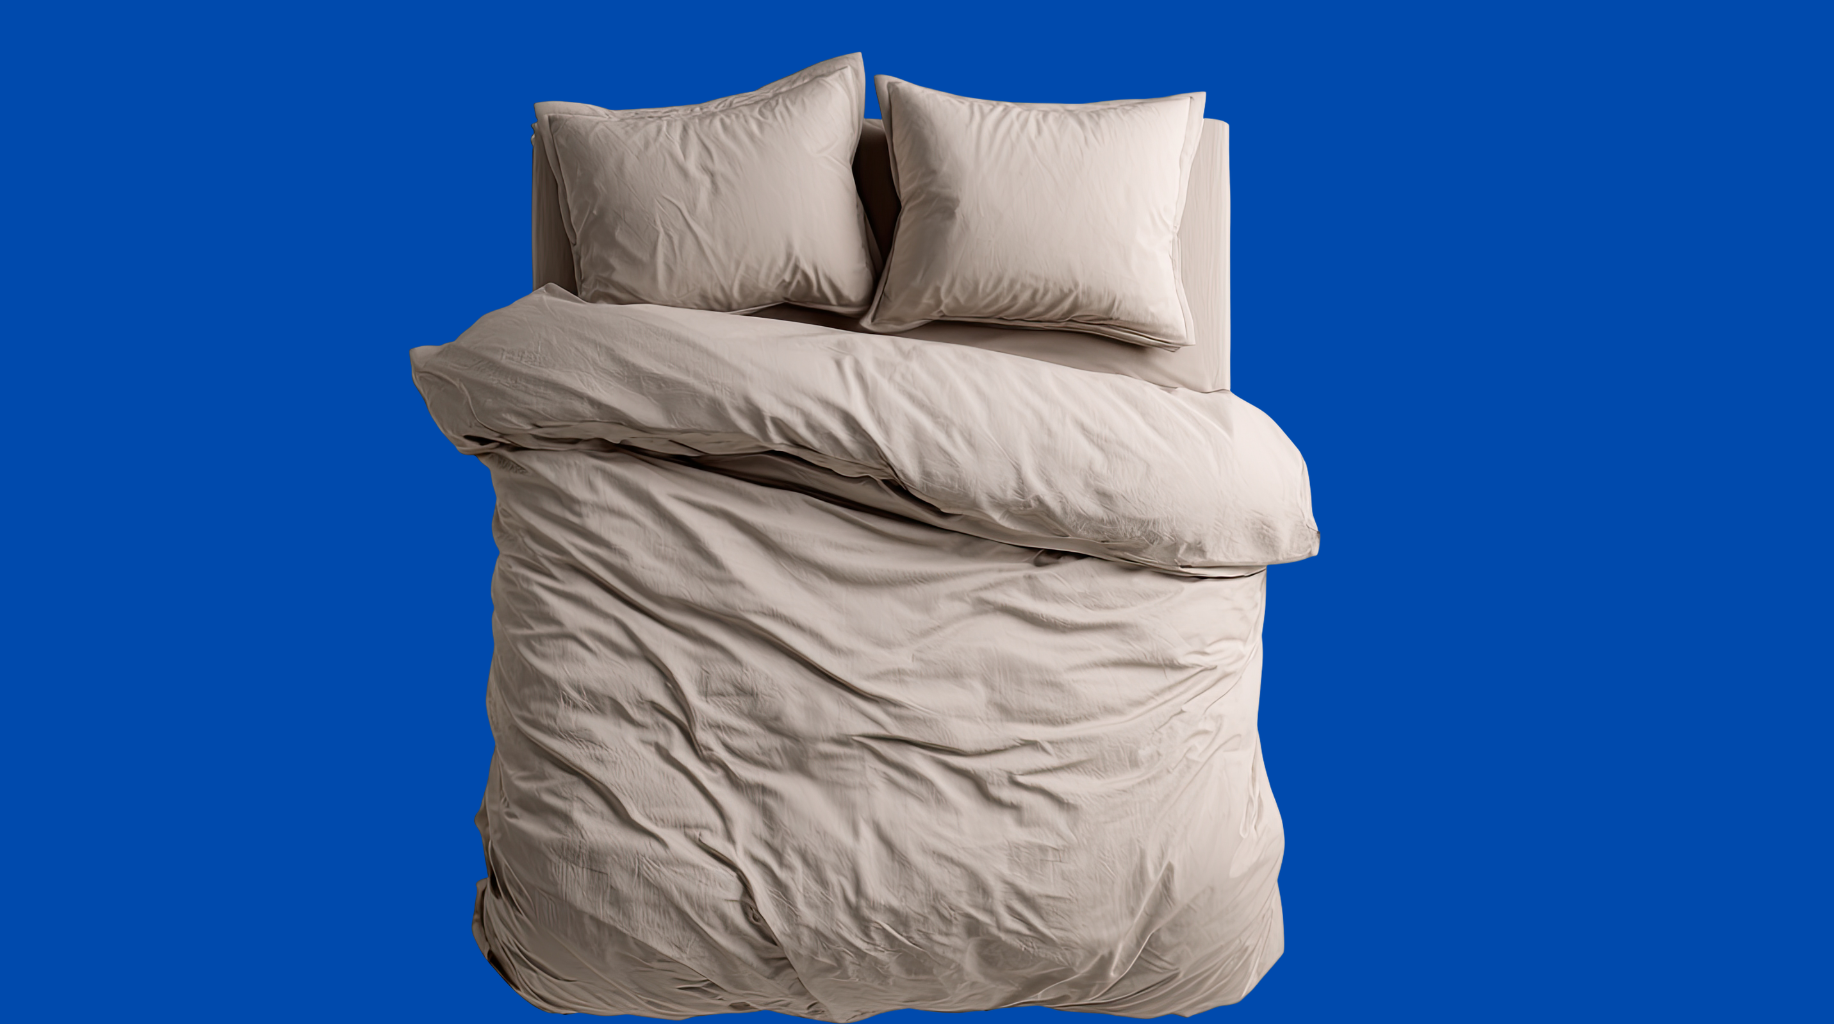
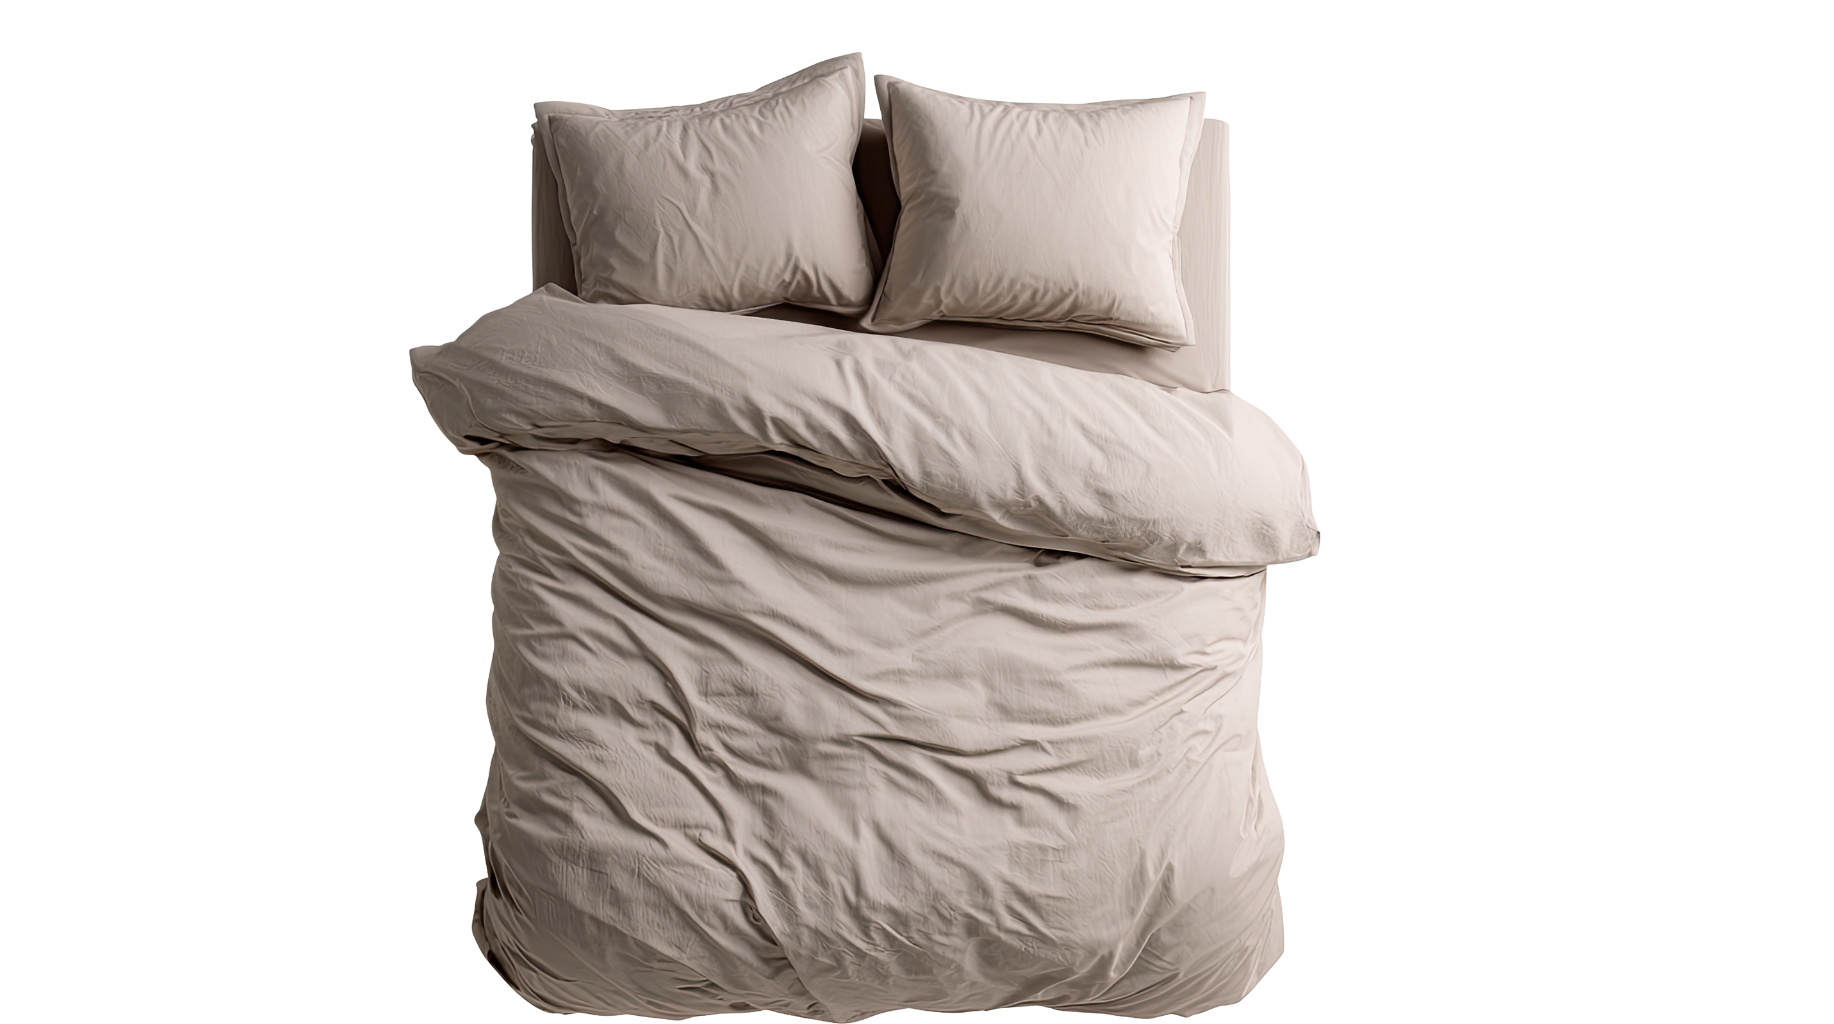
Hero: use screen blend mode for black-bg bed image, make bigger

diff --git a/index.html b/index.html
@@ -84,8 +84,8 @@
     .hero { display: grid; grid-template-columns: 1fr 1fr; align-items: center; padding: 7rem 3.5rem 3.5rem; gap: 3rem; }
     .hero-left { display: flex; flex-direction: column; justify-content: center; }
     .hero-right { display: flex; align-items: center; justify-content: center; }
-    .hero-bed { width: 100%; max-width: 580px; }
-    .hero-bed img { width: 100%; display: block; mix-blend-mode: multiply; }
+    .hero-bed { width: 100%; max-width: 680px; }
+    .hero-bed img { width: 100%; display: block; mix-blend-mode: screen; }
     .hero-eyebrow { font-family: var(--ff-display); font-size: 0.7rem; letter-spacing: 0.24em; text-transform: uppercase; color: var(--navy-soft); margin-bottom: 1.5rem; display: inline-flex; align-items: center; gap: 0.75rem; background: rgba(255,255,255,0.72); backdrop-filter: blur(8px); -webkit-backdrop-filter: blur(8px); padding: 0.25rem 0.85rem 0.25rem 0.6rem; border-radius: 20px; border: 1px solid rgba(255,255,255,0.9); }
     .hero-eyebrow::before { content: ''; width: 28px; height: 1px; background: var(--sun-deep); flex-shrink: 0; }
     .hero-headline { font-family: var(--ff-display); font-size: clamp(2rem, 3vw, 2.8rem); font-weight: 300; line-height: 1.35; color: var(--navy); margin-bottom: 1.25rem; }
@@ -279,7 +279,7 @@
     </div>
     <div class="hero-right">
       <div class="hero-bed reveal delay-2">
-        <img src="bed.jpg" alt="A bed — where dreams begin"/>
+        <img src="bed.png" alt="A bed — where dreams begin"/>
       </div>
     </div>
   </section>
